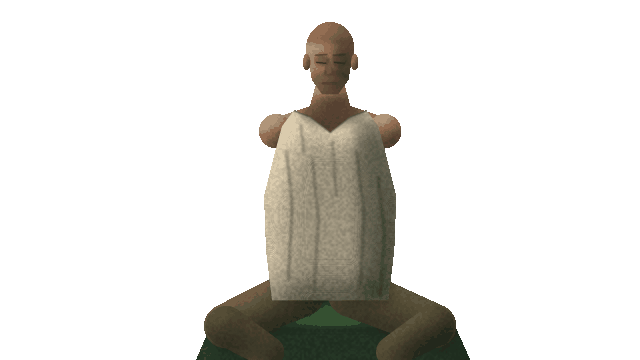
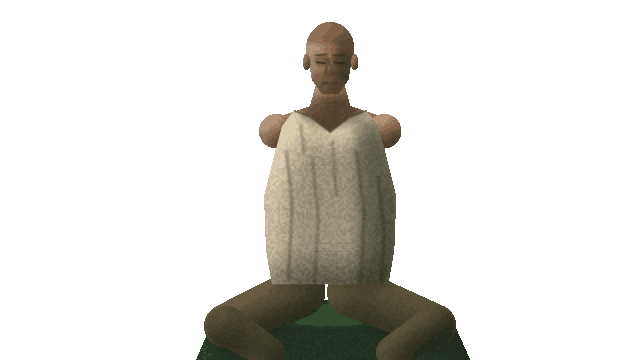
Nyitány: lencse alakú handpan (két lapos héj), ütéspontok igazítva
Claude-Session: https://claude.ai/code/session_01T6sPwaPiVjASr8DLyjC9bo

Changed region(s): [[0.4062, 0.7028, 0.5625, 0.8556]]

diff --git a/AETHER_godot/tools/intro_jatekos.py b/AETHER_godot/tools/intro_jatekos.py
@@ -26,7 +26,7 @@ SHIRT = (206, 192, 164)
 TROUSERS = (98, 88, 62)
 PAN_C = (322, 262)
 # a hangmezők a hangszer közepéhez képest (x, y, félszélesség); az első a középső „ding”
-FIELDS = [(0, -6, 17), (-60, -6, 13), (-38, -22, 12), (4, -28, 12), (46, -20, 12), (64, -2, 13), (34, 14, 14), (-30, 15, 14)]
+FIELDS = [(0, -24, 16), (-58, -21, 11), (-21, -34, 10), (21, -34, 10), (58, -21, 11), (60, -6, 12), (22, 5, 13), (-22, 5, 13), (-60, -6, 12)]
 
 
 def sc(pts):
@@ -118,7 +118,7 @@ def body():
         part(c, lambda d, sx=sx: d.ellipse(sc([(sx - 17, 114), (sx + 17, 148)]), fill=255), SKIN, round_r=10, k=1.0, seed=5)
     # ujjatlan vászoning: laza, a mellkasnál szélesebb, lent a hangszer mögé fut
     shirt_pts = [(294, 110), (310, 116), (330, 132), (350, 116), (366, 110), (378, 126), (386, 156), (396, 196), (394, 250),
-                 (388, 300), (272, 300), (266, 250), (264, 196), (274, 156), (282, 126)]
+                 (388, 284), (272, 284), (266, 250), (264, 196), (274, 156), (282, 126)]
     sm = part(c, lambda d: d.polygon(sc(shirt_pts), fill=255), SHIRT, round_r=16, k=1.0, seed=6, grain=0.06, shadow=0.25, ambient=0.78)
     for pts, a in (([(286, 150), (292, 204), (288, 280)], 60), ([(312, 156), (318, 220), (314, 290)], 50), ([(356, 150), (364, 214), (360, 286)], 60),
                    ([(378, 176), (384, 236), (380, 296)], 70), ([(332, 140), (336, 196)], 45), ([(300, 124), (304, 152)], 45)):
@@ -147,23 +147,30 @@ def body():
 
 
 def pan():
+    """A handpan: két lapos, lencse alakú héj a peremnél összeillesztve, enyhén felülről nézve."""
     c = new()
     px, py = PAN_C
-    rx, ry = 96, 36
-    # alsó héj (bronzos), felső kupola (acél), perem
-    part(c, lambda d: d.chord(sc([(px - rx, py - 40), (px + rx, py + 66)]), 0, 180, fill=255), (156, 104, 68), round_r=16, k=1.2, seed=11, ambient=0.62)
-    dome = part(c, lambda d: d.ellipse(sc([(px - rx, py - ry), (px + rx, py + ry - 6)]), fill=255), (148, 156, 158), round_r=20, k=1.3, seed=12,
-                grain=0.03, ambient=0.86)
-    tint(c, lambda d: d.arc(sc([(px - rx, py - ry), (px + rx, py + ry - 6)]), 8, 172, fill=(70, 52, 40, 255), width=2 * S), blur=0.5)
-    tint(c, lambda d: d.arc(sc([(px - rx + 2, py - ry + 2), (px + rx - 2, py + ry - 8)]), 196, 300, fill=(236, 240, 238, 200), width=int(1.5 * S)), blur=0.8, clip=dome)
-    tint(c, lambda d: d.ellipse(sc([(px - 70, py - 30), (px - 10, py - 12)]), fill=(240, 244, 240, 60)), blur=6, clip=dome)     # fényfolt
+    rx = 98
+    # alsó héj: lapos, árnyékban van, csak egy keskeny ív látszik belőle a perem alatt
+    part(c, lambda d: d.chord(sc([(px - rx + 3, py - 30), (px + rx - 3, py + 30)]), 0, 180, fill=255), (120, 92, 70), round_r=10, k=0.9,
+         seed=11, ambient=0.50)
+    # felső héj: a perem (döntött kör) és a fölé domborodó lapos kupola
+    def dome_shape(d):
+        d.ellipse(sc([(px - rx, py - 17), (px + rx, py + 17)]), fill=255)
+        d.chord(sc([(px - rx, py - 44), (px + rx, py + 44)]), 180, 360, fill=255)
+    dome = part(c, dome_shape, (150, 158, 160), round_r=18, k=1.25, seed=12, grain=0.03, ambient=0.86)
+    # a perem: sötét illesztés elöl, fölötte vékony csillanás
+    tint(c, lambda d: d.arc(sc([(px - rx, py - 17), (px + rx, py + 17)]), 4, 176, fill=(58, 50, 44, 255), width=int(1.6 * S)), blur=0.4)
+    tint(c, lambda d: d.arc(sc([(px - rx + 1, py - 19), (px + rx - 1, py + 14)]), 12, 168, fill=(222, 228, 228, 200), width=S), blur=0.5, clip=dome)
+    tint(c, lambda d: d.arc(sc([(px - rx + 2, py - 42), (px + rx - 2, py + 40)]), 200, 300, fill=(238, 242, 240, 190), width=int(1.4 * S)), blur=0.8, clip=dome)
+    tint(c, lambda d: d.ellipse(sc([(px - 74, py - 36), (px - 14, py - 20)]), fill=(240, 244, 240, 55)), blur=6, clip=dome)        # fényfolt
     for i, (fx, fy, rw) in enumerate(FIELDS):
-        x, y, rh = px + fx, py + fy, rw * 0.42
-        tint(c, lambda d: d.ellipse(sc([(x - rw, y - rh), (x + rw, y + rh)]), fill=(70, 78, 82, 150)), blur=0.8, clip=dome)     # bemélyedés
+        x, y, rh = px + fx, py + fy, rw * 0.40
+        tint(c, lambda d: d.ellipse(sc([(x - rw, y - rh), (x + rw, y + rh)]), fill=(70, 78, 82, 150)), blur=0.8, clip=dome)        # bemélyedés
         tint(c, lambda d: d.arc(sc([(x - rw, y - rh), (x + rw, y + rh)]), 190, 350, fill=(52, 58, 62, 255), width=int(1.3 * S)), blur=0.4, clip=dome)
         tint(c, lambda d: d.arc(sc([(x - rw, y - rh), (x + rw, y + rh)]), 20, 160, fill=(226, 232, 232, 220), width=int(1.2 * S)), blur=0.4, clip=dome)
         if i == 0:
-            tint(c, lambda d: d.ellipse(sc([(x - 7, y - 4), (x + 7, y + 3)]), fill=(214, 220, 220, 230)), blur=0.8, clip=dome)   # a „ding” púpja
+            tint(c, lambda d: d.ellipse(sc([(x - 7, y - 4), (x + 7, y + 3)]), fill=(214, 220, 220, 230)), blur=0.8, clip=dome)      # a „ding” púpja
         else:
             tint(c, lambda d: d.ellipse(sc([(x - rw * 0.4, y - rh * 0.4), (x + rw * 0.4, y + rh * 0.4)]), fill=(56, 62, 66, 200)), blur=0.6, clip=dome)
     return finish(c, 40)
